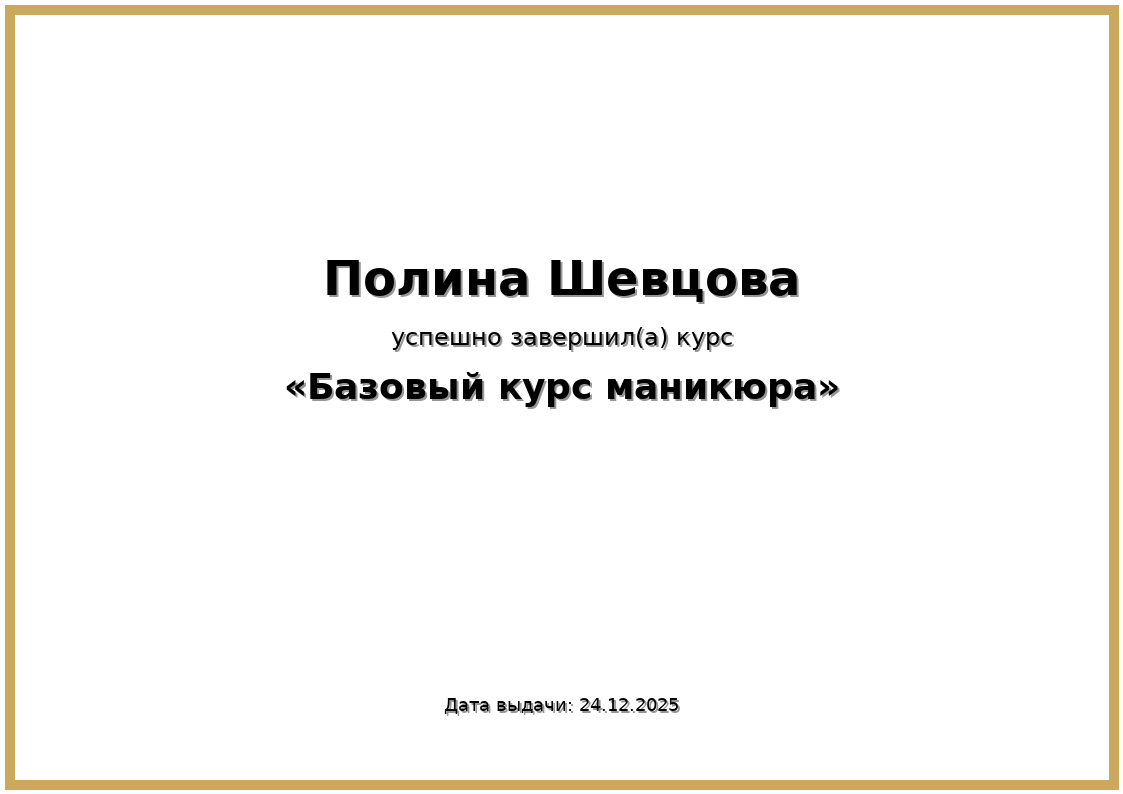
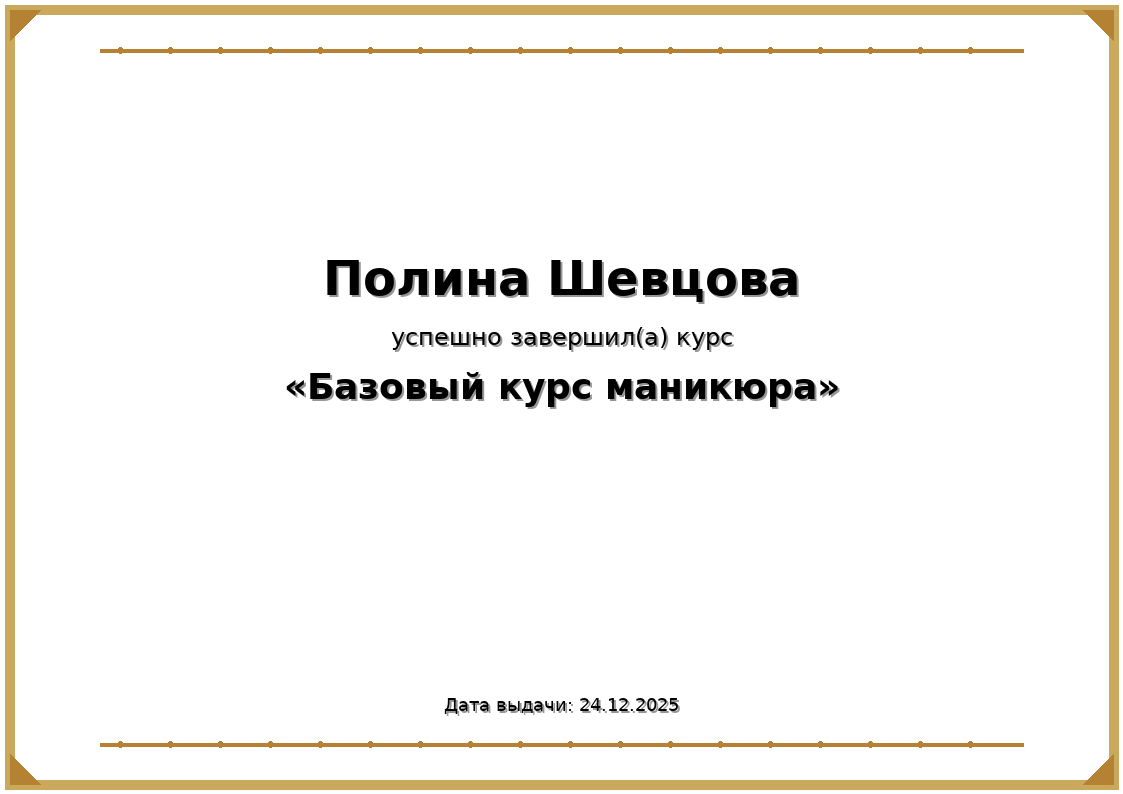
Украсила сертификат

diff --git a/app/utils/certificate_generator.py b/app/utils/certificate_generator.py
@@ -5,20 +5,14 @@ from PIL import Image, ImageDraw, ImageFont
 from app import db
 from app.models import Certificate
 
-# Пути к шрифтам
 FONT_DIR = os.path.join(os.path.dirname(__file__), '..', 'static', 'fonts')
 FONT_BOLD = os.path.join(FONT_DIR, 'DejaVuSans-Bold.ttf')
 FONT_REGULAR = os.path.join(FONT_DIR, 'DejaVuSans.ttf')
 
-# Папка для сертификатов
 CERT_DIR = os.path.join(os.path.dirname(__file__), '..', 'static', 'certificates', 'generated')
 os.makedirs(CERT_DIR, exist_ok=True)
 
 def generate_certificate_image(user, course):
-    """
-    Генерация сертификата как изображения для завершённого курса
-    """
-    # Проверяем, есть ли уже сертификат
     existing_cert = Certificate.query.filter_by(
         id_user=user.id_user,
         id_course=course.id_course
@@ -26,68 +20,72 @@ def generate_certificate_image(user, course):
     if existing_cert:
         return existing_cert.file_path
 
-    # Размер сертификата
     width, height = 1123, 794
-    background_color = (255, 255, 255)  # белый фон
-    border_color = (202, 168, 92)  # золотистая рамка
+    background_color = (255, 255, 255)
+    border_color = (202, 168, 92)  # золотая рамка
+    accent_color = (180, 130, 50)  # дополнительный цвет
 
-    # Создаём изображение
     img = Image.new('RGB', (width, height), background_color)
     draw = ImageDraw.Draw(img)
 
-    # ---------- РАМКА ----------
     border_width = 10
+    # рамка
     draw.rectangle(
         [border_width//2, border_width//2, width-border_width//2, height-border_width//2],
         outline=border_color,
         width=border_width
     )
 
-    # ---------- ТЕНЬ для текста ----------
-    def draw_text_centered(text, y, font, fill=(0,0,0)):
-        bbox = draw.textbbox((0,0), text, font=font)
-        text_width = bbox[2] - bbox[0]
-        text_height = bbox[3] - bbox[1]
-        x = (width - text_width) / 2
-        # Тень
-        draw.text((x+2, y+2), text, font=font, fill=(150,150,150))
-        # Сам текст
-        draw.text((x, y), text, font=font, fill=fill)
-        return text_height
+    # декоративные линии сверху и снизу
+    margin = 50
+    for y in [margin, height - margin]:
+        draw.line([(100, y), (width-100, y)], fill=accent_color, width=4)
+        # маленькие звездочки/точки вдоль линии
+        for x in range(120, width-120, 50):
+            draw.ellipse([x-3, y-3, x+3, y+3], fill=accent_color)
 
-    # Шрифты
+    # угловые элементы (маленькие треугольники)
+    triangle_size = 30
+    draw.polygon([(border_width, border_width),
+                  (border_width + triangle_size, border_width),
+                  (border_width, border_width + triangle_size)], fill=accent_color)
+    draw.polygon([(width-border_width, border_width),
+                  (width-border_width-triangle_size, border_width),
+                  (width-border_width, border_width+triangle_size)], fill=accent_color)
+    draw.polygon([(border_width, height-border_width),
+                  (border_width+triangle_size, height-border_width),
+                  (border_width, height-border_width-triangle_size)], fill=accent_color)
+    draw.polygon([(width-border_width, height-border_width),
+                  (width-border_width-triangle_size, height-border_width),
+                  (width-border_width, height-border_width-triangle_size)], fill=accent_color)
+
+    # ---------- Шрифты ----------
     font_name = ImageFont.truetype(FONT_BOLD, 48)
     font_course = ImageFont.truetype(FONT_BOLD, 36)
     font_text = ImageFont.truetype(FONT_REGULAR, 24)
     font_date = ImageFont.truetype(FONT_REGULAR, 18)
 
-    # ---------- ИМЯ пользователя ----------
-    name_text = f"{user.first_name} {user.last_name}"
+    def draw_text_centered(text, y, font, fill=(0,0,0)):
+        bbox = draw.textbbox((0,0), text, font=font)
+        text_width = bbox[2] - bbox[0]
+        text_height = bbox[3] - bbox[1]
+        x = (width - text_width) / 2
+        draw.text((x+2, y+2), text, font=font, fill=(150,150,150))  # тень
+        draw.text((x, y), text, font=font, fill=fill)
+        return text_height
+
     y = 250
-    text_h = draw_text_centered(name_text, y, font_name)
-    y += text_h + 30
-
-    # ---------- Текст "успешно завершил курс" ----------
-    completion_text = "успешно завершил(а) курс"
-    text_h = draw_text_centered(completion_text, y, font_text)
-    y += text_h + 20
-
-    # ---------- Название курса ----------
-    course_text = f"«{course.title}»"
-    text_h = draw_text_centered(course_text, y, font_course)
-    y += text_h + 40
-
-    # ---------- Дата ----------
+    y += draw_text_centered(f"{user.first_name} {user.last_name}", y, font_name) + 30
+    y += draw_text_centered("успешно завершил(а) курс", y, font_text) + 20
+    y += draw_text_centered(f"«{course.title}»", y, font_course) + 40
     issued_date = datetime.utcnow().strftime('%d.%m.%Y')
-    date_text = f"Дата выдачи: {issued_date}"
-    draw_text_centered(date_text, height - 100, font_date)
+    draw_text_centered(f"Дата выдачи: {issued_date}", height - 100, font_date)
 
-    # ---------- Сохраняем изображение ----------
+    # ---------- Сохраняем ----------
     filename = f"certificate_{user.id_user}_{course.id_course}.png"
     file_path = os.path.join(CERT_DIR, filename)
     img.save(file_path)
 
-    # ---------- Записываем в БД ----------
     certificate = Certificate(
         id_user=user.id_user,
         id_course=course.id_course,
